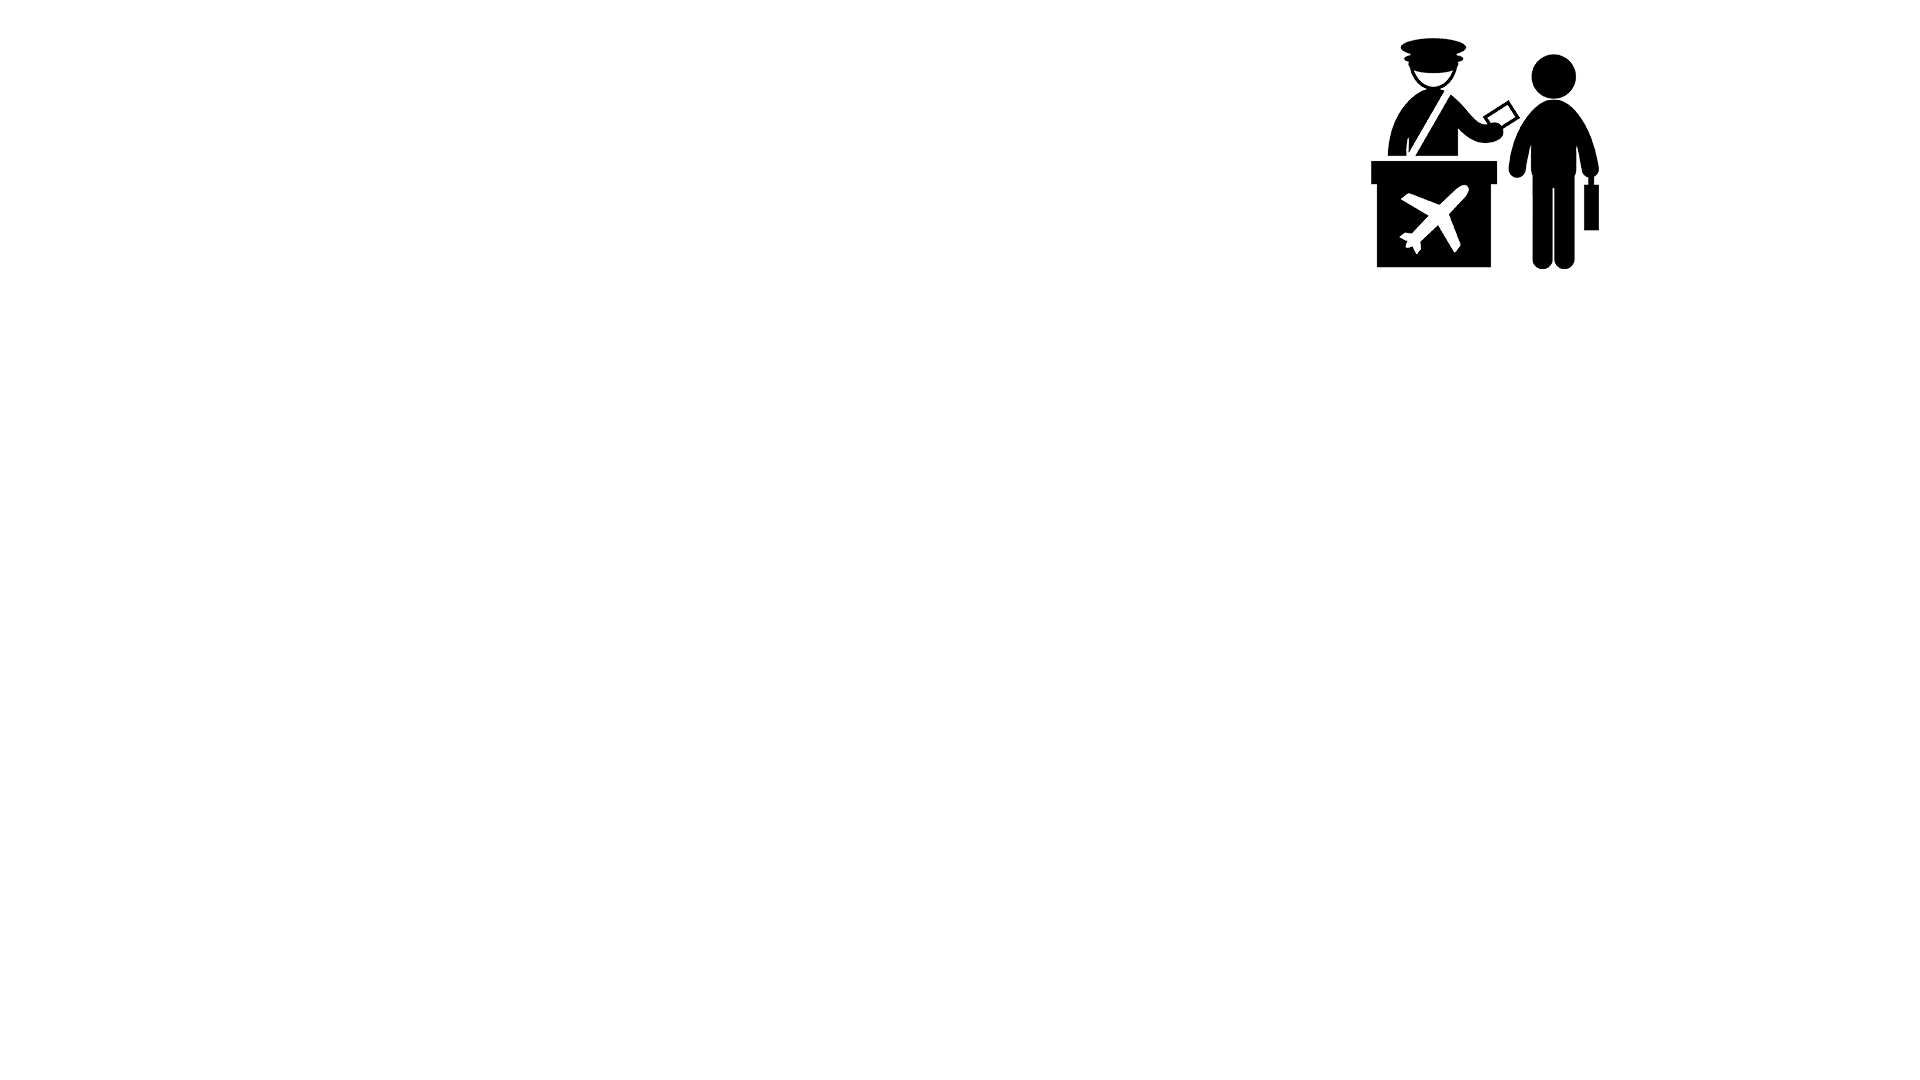
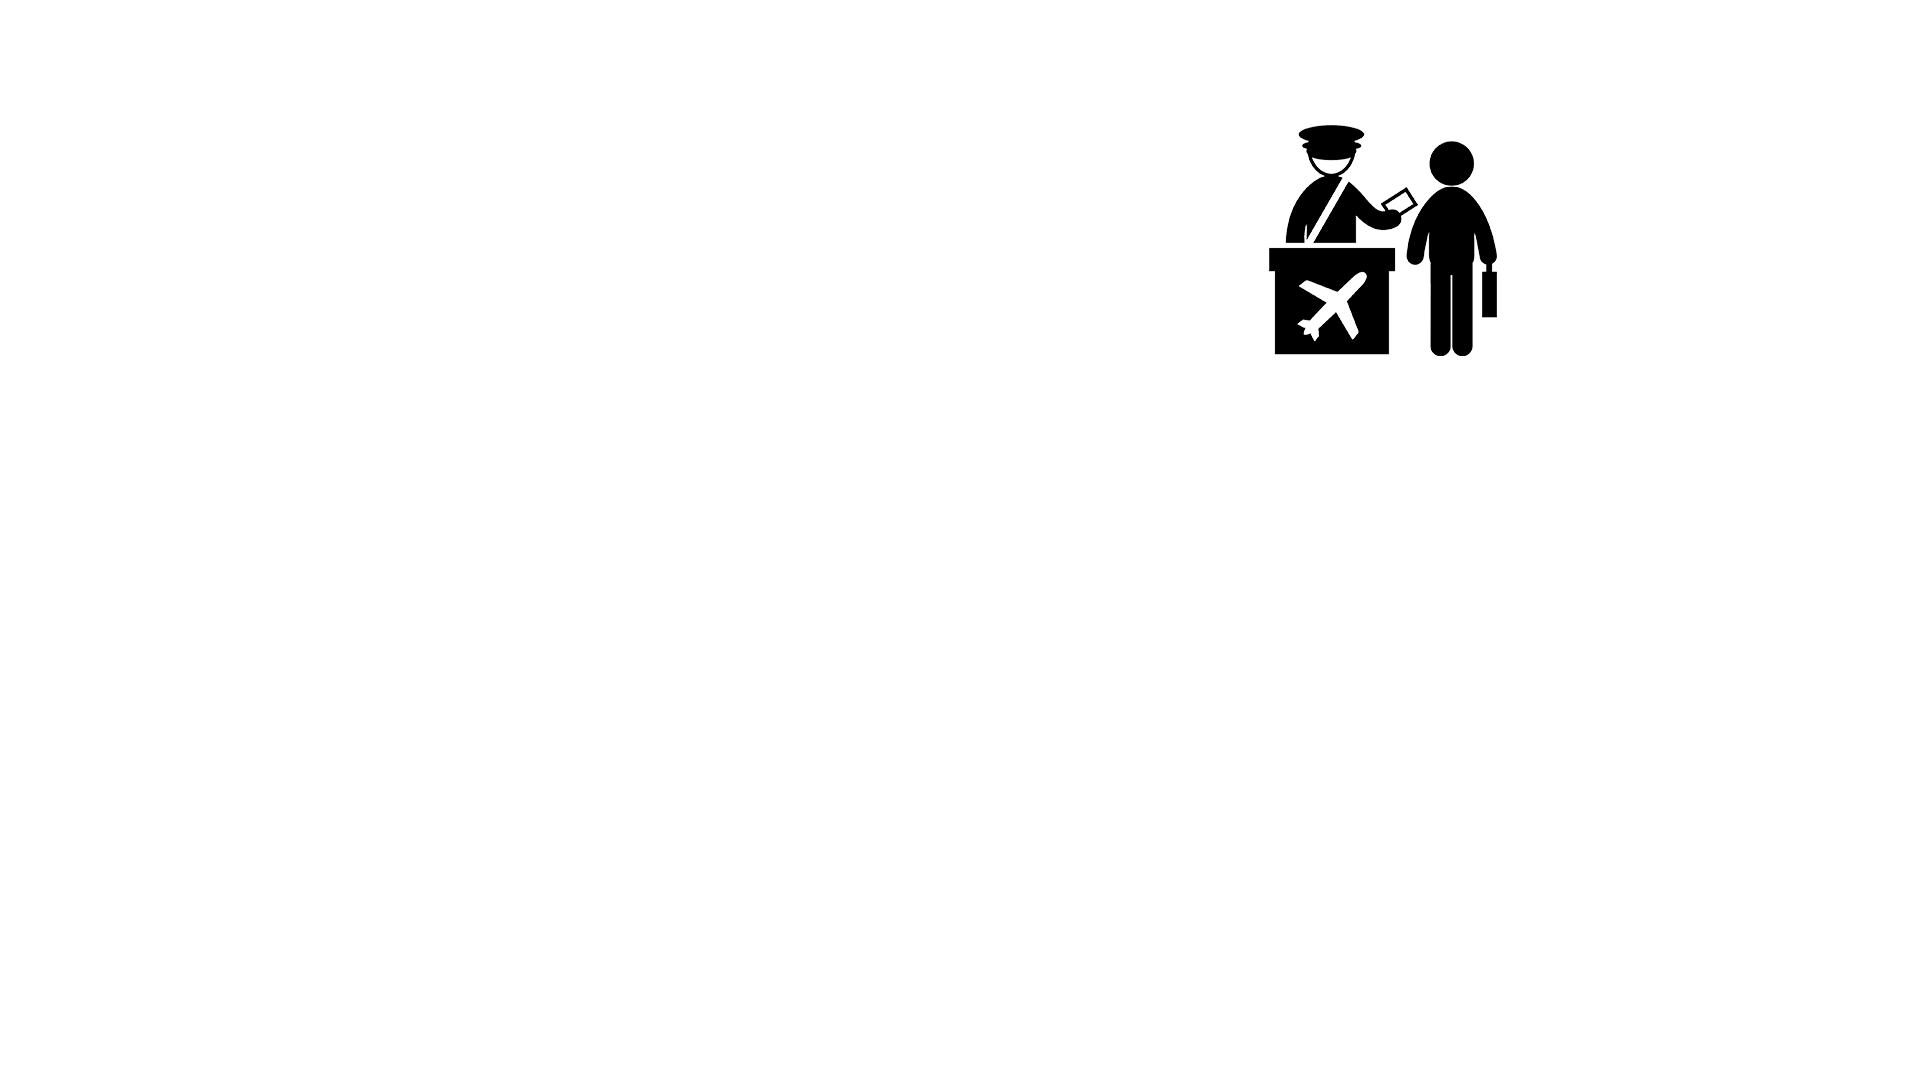
adjust positions

Changed region(s): [[0.6562, 0.0306, 0.8438, 0.3361]]

diff --git a/style.css b/style.css
@@ -170,7 +170,7 @@ img#rt {
 #btn6 {
   position: absolute;
   transform: translate(-50%, -50%);
-  margin-top: 200px;
+  margin-top: 250px;
   text-decoration: none;
   display: inline-block;
   padding: 8px 50px;
